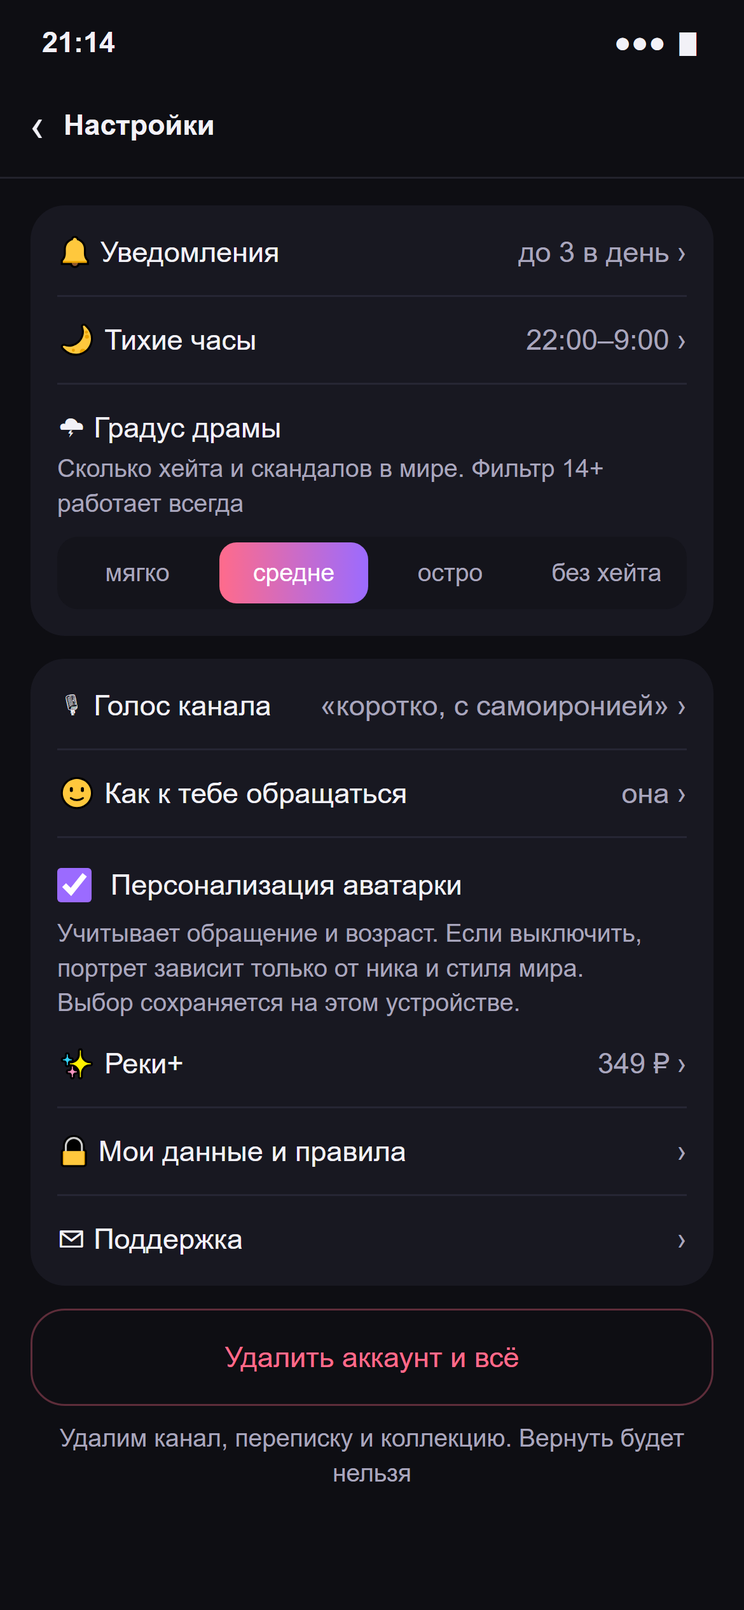
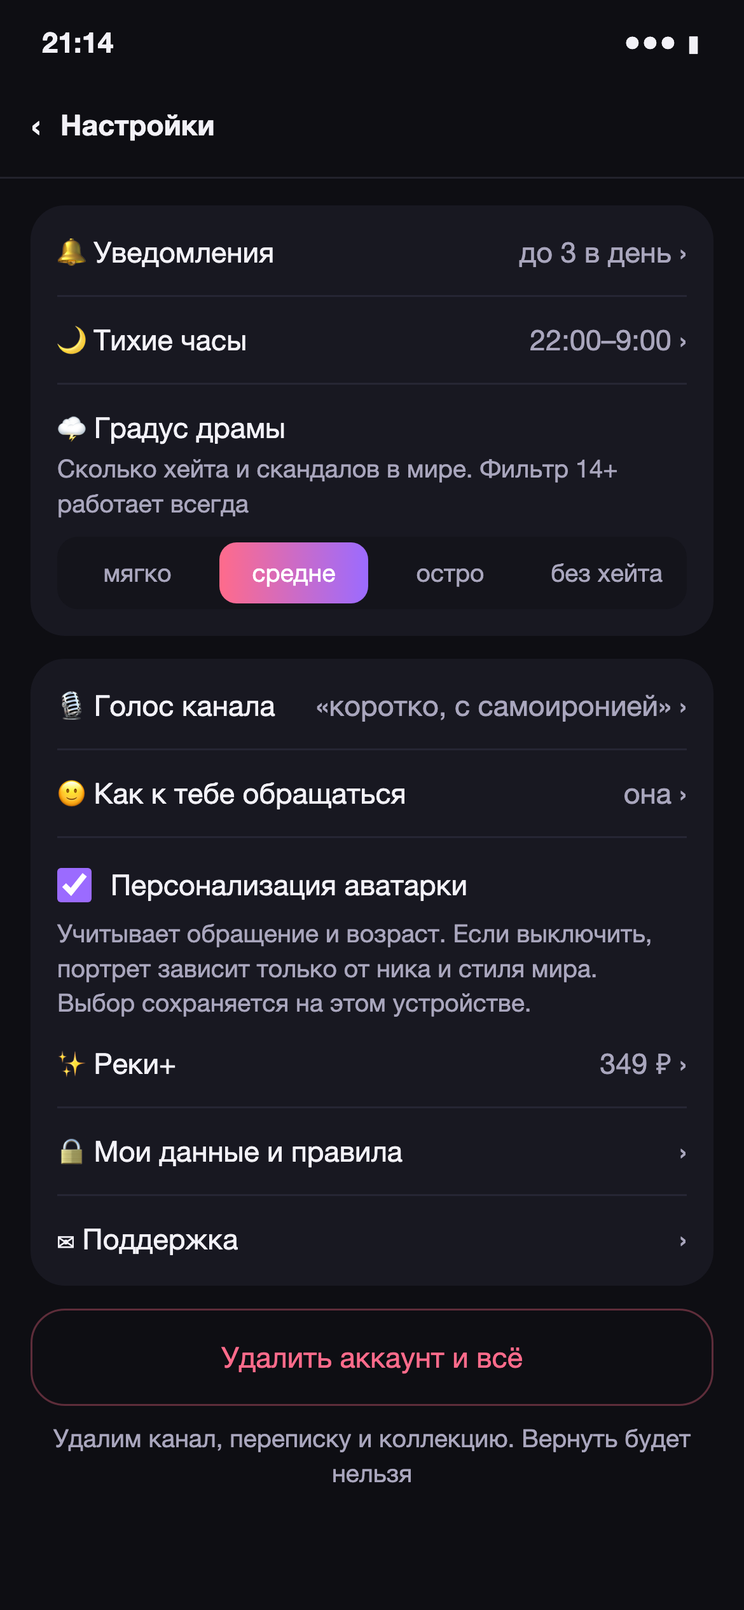
fix(frontend): preserve world editor return context #189

diff --git a/frontend/src/screens/day.tsx b/frontend/src/screens/day.tsx
@@ -271,7 +271,7 @@ function Me() {
           {[[`⚡ ${p.postsLeft}`, 'энергии'], [fmt(p.subs), 'подписчиков']].map(([v, l]) => <Card key={l} style={{ padding: 14, textAlign: 'center' }}><div style={{ fontWeight: 800, fontSize: 16 }}>{v}</div><div className="small muted">{l}</div></Card>)}
         </div>
         <div className="profile-task-row"><div><b>💡 О чём написать</b><p className="small muted">{p.wants[0]?.text ?? "Поделись событием из своего мира"}</p></div><button className="text-link small" onClick={() => nav.push('02-1_compose')}>Написать →</button></div><p className="small muted energy-help">Пост и ответ расходуют энергию. Новый запас — в 09:00 МСК.</p>
-        <Card style={{ marginBottom: 18 }}><b>{p.hitOwnWorldMilestone ? '✨ Свой мир открыт' : '✨ Создай свой мир'}</b><p className="small muted">{p.hitOwnWorldMilestone ? 'Доступ подтверждён. Можно придумать свою историю.' : 'Первый пост приглашённого друга или 500 подписчиков в одном мире.'}</p>{!p.hitOwnWorldMilestone && <><progress aria-label="Подписчики до открытия своего мира" value={Math.min(500, p.subs)} max={500} /><div className="small muted">Этот мир: {Math.min(500, p.subs)} / 500</div></>}<button className="text-link" onClick={() => { if (p.hitOwnWorldMilestone) { beginOwnWorld(p); nav.push('05-7b_own_world', { world: 'own' }) } else nav.push('04-3_invite') }}>{p.hitOwnWorldMilestone ? 'Создать свой мир →' : 'Пригласить друга →'}</button></Card>
+        <Card style={{ marginBottom: 18 }}><b>{p.hitOwnWorldMilestone ? '✨ Свой мир открыт' : '✨ Создай свой мир'}</b><p className="small muted">{p.hitOwnWorldMilestone ? 'Доступ подтверждён. Можно придумать свою историю.' : 'Первый пост приглашённого друга или 500 подписчиков в одном мире.'}</p>{!p.hitOwnWorldMilestone && <><progress aria-label="Подписчики до открытия своего мира" value={Math.min(500, p.subs)} max={500} /><div className="small muted">Этот мир: {Math.min(500, p.subs)} / 500</div></>}<Button secondary onClick={() => nav.push('05-11_world_rules')}>Настройки мира</Button><button className="text-link" onClick={() => { if (p.hitOwnWorldMilestone) { beginOwnWorld(p); nav.push('05-7b_own_world', { world: 'own' }) } else nav.push('04-3_invite') }}>{p.hitOwnWorldMilestone ? 'Создать свой мир →' : 'Пригласить друга →'}</button></Card>
         <Card style={{ marginBottom: 10 }}>
           <div className="row" style={{ justifyContent: 'space-between', marginBottom: 8 }}><b>Серия {p.streak.days} дня</b><span className="small" style={{ color: 'var(--gift)' }}>{p.streak.nextReward}</span></div>
           <div style={{ display: 'flex', gap: 6 }}>{DAYS.map((d, i) => <div key={d} style={{ flex: 1, textAlign: 'center' }}><div style={{ height: 30, borderRadius: 9, display: 'flex', alignItems: 'center', justifyContent: 'center', fontSize: 14, ...(p.streak.week[i] ? { background: 'var(--grad)' } : i === today ? { border: '2px dashed var(--accent)' } : { background: '#20202B' }) }}>{p.streak.week[i] ? '🔥' : i === today ? '?' : ''}</div><div className="small muted" style={{ marginTop: 3 }}>{d}</div></div>)}</div>
@@ -354,7 +354,7 @@ function Settings() {
           {row('🎙 Голос канала', `${p.voice} ›`, false, () => nav.push('05-9_voice'))}{row('🙂 Как к тебе обращаться', `${{ she: 'она', he: 'он', nick: 'по нику' }[p.address]} ›`, false, () => openPanel('address'))}
           <AvatarPersonalization enabled={personalizeAvatar} onChange={enabled => setAvatarPersonalization(p.id, enabled)} />
           <div className="row" style={{ marginBottom: 12 }}><Avatar seed={p.handle} size={48} /><span className="small muted">Выбор сохраняется на этом устройстве.</span></div>
-          {row('✨ Реки+', '349 ₽ ›', false, () => nav.push('04-2_fake_door'))}{row('📜 Как устроен мир', '›', false, () => nav.push('05-11_world_rules'))}{row('📋 Правила публикаций', '›', false, () => nav.push('06-4_rules'))}{row('🔒 Мои данные и правила', 'скоро ›', false, () => openPanel('data'))}{row('✉ Поддержка', 'скоро ›', true, () => openPanel('support'))}
+          {row('✨ Реки+', '349 ₽ ›', false, () => nav.push('04-2_fake_door'))}{row('📋 Правила публикаций', '›', false, () => nav.push('06-4_rules'))}{row('🔒 Мои данные и правила', 'скоро ›', false, () => openPanel('data'))}{row('✉ Поддержка', 'скоро ›', true, () => openPanel('support'))}
         </Card>
         <button onClick={() => setDel(true)} className="card" style={{ width: '100%', textAlign: 'center', color: 'var(--accent)', background: 'transparent', border: '1px solid #FF6B8B55' }}>Удалить аккаунт и всё</button>
         <div className="small muted" style={{ textAlign: 'center', marginTop: 8 }}>Удалим канал, переписку и коллекцию. Вернуть будет нельзя</div>

diff --git a/frontend/src/screens/worldQuick.tsx b/frontend/src/screens/worldQuick.tsx
@@ -15,7 +15,6 @@ import { TextField } from '../ui/TextField'
 import { AvatarPersonalization } from '../ui/AvatarPersonalization'
 import type { Address, WorldDefinition, WorldId } from '../api/types'
 
-function advanced(draft: WorldDraft) { setWorldDraft({ ...draft, advanced: true }) }
 export function WorldOverview() {
   const draft = useWorldDraft(); const nav = useNav(); const { player } = useStore()
   const [confirmSwitch, setConfirmSwitch] = useState(false)
@@ -53,7 +52,7 @@ export function QuickWorldForm({ draft }: { draft: WorldDraft }) {
     <TextField label="Расскажи о своём мире" value={d.description} onChange={description => updateWorldDraft({ description })} rows={5} placeholder="Город парит над морем. Здесь письма доставляют птицы, а жители ищут пропавший остров…" />
     <details className="card"><summary>Нужна идея?</summary><p className="small muted">{d.description.length ? 'Очисти описание, чтобы выбрать готовую идею.' : 'Выбери основу и допиши свои детали.'}</p>{['Город над облаками, где жители ищут пропавший остров и оставляют находки в общей ленте.', 'Космическая станция, на которой каждое утро появляется сообщение из будущего.'].map(idea => <button className="opt" key={idea} disabled={d.description.length > 0} onClick={() => { if (!d.description.length) updateWorldDraft({ description: idea }) }}>{idea}</button>)}</details>
     {!draft.editingId && <p className="small prototype-note">DEV: пока показываем пример наполнения вместо AI-генерации.</p>}
-    <button className="text-link" onClick={() => { advanced(draft); nav.push('05-7b_own_world') }}>Расширенные настройки <span>→</span></button><p className="small muted">Правила, герои и завязка — если хочется настроить всё самому.</p>
+    <button className="text-link" onClick={() => nav.push('05-12_world_advanced')}>Расширенные настройки <span>→</span></button><p className="small muted">Правила, герои и завязка — если хочется настроить всё самому.</p>
   </div><BottomCTA main="Мой персонаж" disabled={!d.title.trim() || !d.description.trim()} onMain={() => { const current = getWorldDraft()!; setWorldDraft({ ...current, definition: draft.editingId ? d : prototypeWorld(d), previewOnly: !draft.editingId }); nav.push('01-4_channel') }} /></div>
 }
 export function QuickChannelForm({ draft }: { draft: WorldDraft }) {
@@ -85,6 +84,6 @@ export function WorldPrototypePreview() {
     <h2>Первая запись в ленте</h2><Card><div className="row"><Avatar seed={first?.avatarSeed} avatarStyle={d.avatarStyle} mode="default" /><div><b>{first?.name}</b><div className="small muted">{first?.role}</div></div></div><p>{d.firstContext}</p><div className="small muted">♡ 12　💬 2</div></Card>
     {second && <Card><b>{second.name}</b><p>У меня есть другая версия. Давай сравним находки в ленте?</p></Card>}
     <p className="small muted">Это пример наполнения для проверки интерфейса. После согласования AI сможет подбирать героев и завязку под твоё описание.</p>
-    <button className="text-link" onClick={() => { advanced(draft); nav.push('05-7b_own_world') }}>Посмотреть расширенные настройки →</button>
+    <button className="text-link" onClick={() => nav.push('05-12_world_advanced')}>Посмотреть расширенные настройки →</button>
   </div><BottomCTA main="Вернуться к настройке" onMain={() => nav.back()} /></div>
 }

diff --git a/frontend/src/screens/worldWizard.tsx b/frontend/src/screens/worldWizard.tsx
@@ -60,6 +60,7 @@ export function ChannelSetup() {
 }
 export function DescriptionSetup() { return <Ready>{draft => draft.advanced ? <StarsForm draft={draft} /> : <QuickWorldForm draft={draft} />}</Ready> }
 export function VoiceSetup() { return <Ready>{draft => <StarsForm draft={draft} quick={!draft.advanced} />}</Ready> }
+export function AdvancedSetup() { return <Ready>{draft => <StarsForm draft={draft} />}</Ready> }
 export function StarsSetup() { return <Ready>{draft => <StarsForm draft={draft} />}</Ready> }
 function StarsForm({ draft, quick = false }: { draft: NonNullable<ReturnType<typeof useWorldDraft>>; quick?: boolean }) {
   const nav = useNav(); const { setPlayer } = useStore(); const d = draft.definition
@@ -80,10 +81,9 @@ function StarsForm({ draft, quick = false }: { draft: NonNullable<ReturnType<typ
       else setError(cause instanceof ApiError && cause.status === 409 ? 'Мир изменился или создание с нуля пока недоступно. Твои изменения сохранены в черновике.' : cause instanceof ApiError && cause.status === 503 ? 'Проверка истории временно недоступна. Настройки сохранены — попробуй начать ещё раз чуть позже.' : 'Не получилось сохранить мир. Проверь поля и попробуй снова.')
     } finally { setSaving(false) }
   }
-  if (quick) return <div className="screen no-tab"><TopBar title="Настроение истории" onBack={saving ? undefined : nav.back} /><div className="pad"><DramaPicker definition={d} />
+  if (quick) return <div className="screen no-tab"><TopBar title="Настроение истории" onBack={saving ? undefined : nav.back} /><div className="pad"><Button secondary onClick={() => nav.push('05-12_world_advanced')}>Редактировать мир</Button><p className="small muted">Мир можно будет отредактировать позже</p><DramaPicker definition={d} />
     <div className="quick-summary"><Avatar seed={d.avatar} avatarStyle={d.avatarStyle} profile={{ address: draft.address, ageBand: draft.ageBand, personalizeAvatar: draft.personalizeAvatar }} /><div><b>{d.name}</b><div className="small muted">{d.title} · {d.role}</div></div></div>
     {draft.previewOnly && <p className="small prototype-note">DEV-прототип: дальше — пример ленты, без создания мира в базе.</p>}
-    <button className="text-link" onClick={() => { setWorldDraft({ ...draft, advanced: true }); nav.push('01-4_channel') }}>Расширенные настройки →</button>
     {error && <p role="alert">{error}</p>}{uncertain && <Button onClick={() => nav.replace('01-3_world')}>Проверить список миров</Button>}
   </div><BottomCTA main={saving ? 'Сохраняем…' : draft.previewOnly ? 'Посмотреть свою историю' : draft.editingId ? 'Сохранить изменения' : 'Начать историю'} disabled={saving || uncertain || !d.voice.trim() || d.stars.length === 0} onMain={save} /></div>
   return <WorldAdvanced draft={draft} saving={saving} error={error} uncertain={uncertain} onSave={save} onCheck={() => nav.replace('01-3_world')} />

diff --git a/frontend/src/screens/worldAdvanced.tsx b/frontend/src/screens/worldAdvanced.tsx
@@ -15,6 +15,12 @@ function StringList({ title, help, values, onChange }: { title: string; help: st
 }
 export function WorldAdvanced({ draft, saving, error, uncertain, onSave, onCheck }: { draft: WorldDraft; saving: boolean; error: string; uncertain: boolean; onSave: () => void; onCheck: () => void }) {
   const nav = useNav(); const d = draft.definition
+  // Temporary editor visits use their own history entry; the draft's mode stays intact.
+  const quickSettings = () => {
+    if (nav.current === '05-12_world_advanced' && nav.canBack) { nav.back(); return }
+    setWorldDraft({ ...draft, advanced: false })
+    nav.replace(d.balanceKey === 'own' || draft.editingId ? '05-7b_own_world' : '01-4_channel')
+  }
   const [open, setOpen] = useState(''); const [attempted, setAttempted] = useState(false)
   const update = updateWorldDraft
   const text = (label: string, key: keyof WorldDefinition, help?: string, rows = 2, maxLength = 2000) => <div><TextField label={label} value={String(d[key])} onChange={v => update({ [key]: v })} rows={rows} maxLength={maxLength} />{help && <p className="field-help small muted">{help}</p>}</div>
@@ -22,7 +28,7 @@ export function WorldAdvanced({ draft, saving, error, uncertain, onSave, onCheck
   const section = (id: string, title: string, subtitle: string, children: ReactNode) => <section className="editor-section" id={`editor-${id}`}><button className="editor-section-head" aria-expanded={open === id} onClick={() => setOpen(open === id ? '' : id)}><span><b>{title}</b><span className="small muted">{subtitle}</span>{attempted && missing === id && <span className="small down">Заполни обязательные поля</span>}</span><span aria-hidden>{open === id ? '−' : '＋'}</span></button>{open === id && <div className="editor-section-body">{children}</div>}</section>
   const changeStar = (id: string, patch: Partial<WorldDefinition['stars'][number]>) => update({ stars: d.stars.map(s => s.id === id ? { ...s, ...patch } : s) })
   return <div className="screen no-tab advanced-world"><TopBar title="Настрой свой мир" onBack={saving ? undefined : nav.back} /><div className="pad">
-    <button className="text-link" onClick={() => { setWorldDraft({ ...draft, advanced: false }); nav.replace(d.balanceKey === 'own' || draft.editingId ? '05-7b_own_world' : '01-4_channel') }}>← Быстрые настройки</button>
+    <button className="text-link" onClick={quickSettings}>← Быстрые настройки</button>
     <h1>Добавь свои детали</h1><p className="muted">Открой нужный раздел. Остальное можно оставить как есть.</p>
     {section('person', 'Твой персонаж', d.name ? `${d.name} · ${d.role}` : 'Имя, занятие и портрет', <>
       {text('Имя персонажа', 'name', undefined, 1, 80)}{text('Кто ты в этой истории', 'role', 'Например: фотограф, который замечает странности.', 2, 80)}

diff --git a/frontend/src/screens/world.tsx b/frontend/src/screens/world.tsx
@@ -5,7 +5,7 @@ import { usePlayer } from '../app/store'
 import { useNav } from '../app/nav'
 import { selectDraftOwner, setWorldDraft } from '../app/worldDraft'
 import { Button, TopBar } from '../ui'
-import { DescriptionSetup } from './worldWizard'
+import { AdvancedSetup, DescriptionSetup } from './worldWizard'
 import { register } from '.'
 import { AgeRuleNote } from './worldAdvanced'
 import { worldArt } from '../app/worldPrototype'
@@ -34,4 +34,4 @@ function WorldDetailsScreen() {
     {error && <p role="alert">{error}</p>}
   </div></div>
 }
-register({ '05-7b_own_world': { component: DescriptionSetup, title: 'Описание и правила мира' }, '05-11_world_rules': { component: WorldDetailsScreen, title: 'Настройки мира' } })
+register({ '05-12_world_advanced': { component: AdvancedSetup, title: 'Редактирование мира' }, '05-7b_own_world': { component: DescriptionSetup, title: 'Описание и правила мира' }, '05-11_world_rules': { component: WorldDetailsScreen, title: 'Настройки мира' } })

diff --git a/docs/design/src/journey_v27.py b/docs/design/src/journey_v27.py
@@ -1,0 +1,9 @@
+# #189: visible world settings and contextual editor return, 20.10.2026.
+marker = '<h1>Сколько драмы добавим?</h1>'
+assert marker in S['01-4b_world_setup']
+S['01-4b_world_setup'] = S['01-4b_world_setup'].replace(marker, '<div class="card" style="text-align:center">Редактировать мир</div><p class="small muted">Мир можно будет отредактировать позже</p>' + marker, 1)
+marker = '<p>Этот мир: 209 / 500</p>'
+assert marker in S['05-5_collection']
+S['05-5_collection'] = S['05-5_collection'].replace(marker, marker + '<div class="card" style="text-align:center;margin:12px 0">Настройки мира</div>', 1)
+import re
+S['05-8_settings'] = re.sub(r'<div class="why"[^>]*><span>📜 Как устроен мир</span>.*?</div>', '', S['05-8_settings'])

diff --git a/docs/design/src/build_journey.py b/docs/design/src/build_journey.py
@@ -331,6 +331,8 @@ exec(open(os.path.join(D, 'journey_v24.py'), encoding='utf-8').read())  # #150 s
 exec(open(os.path.join(D, 'journey_v25.py'), encoding='utf-8').read())  # avatar personalization
 exec(open(os.path.join(D, 'journey_v26.py'), encoding='utf-8').read())  # narrative preset goals
 
+exec(open(os.path.join(D, 'journey_v27.py'), encoding='utf-8').read())  # #189 editor navigation and settings
+
 CH = os.environ.get('CHROME_BIN') or shutil.which('google-chrome') or shutil.which('chrome')
 if not CH and os.name == 'nt':
     CH = os.path.join(os.environ.get('PROGRAMFILES', 'C:\\Program Files'), 'Google', 'Chrome', 'Application', 'chrome.exe')

diff --git a/docs/game-flow.md b/docs/game-flow.md
@@ -29,7 +29,8 @@
 4. **Мир.** Все четыре пресета доступны сразу: «Вечерело», «Школа чародеев», «Игра домов», «Айти-тусовка». Создание с нуля открывает постоянный HitOwnWorldMilestone: 500 подписчиков в одном принадлежащем игроку мире либо начисленный бонус пригласившему за первый пост друга. Реки+ и навыки этот доступ не открывают.
 5. **Канал:** роль в мире, название и ник, «как к тебе обращаться: она / он / по нику». Превью показывает выбранную роль; био убрано.
 6. **Решено 13.10.2026: короткий путь из пресета:** для пресета обзор с обложкой → свой персонаж либо герой мира → градус драмы → начало игры. Голос, правила и состав мира берутся из пресета; обязательных редакторов описания и голоса нет. Выбранный герой удаляется из AI-состава. Для создания с нуля быстрый путь: название и описание → персонаж → драма. Расширенные настройки добровольны; единый черновик сохраняет ввод между режимами. Профиль регистрируется только при фактическом создании пресета, если его ещё нет.
-7. **Демо собственного мира:** в DEV доступен просмотр быстрой настройки независимо от игрового доступа; он не открывает доступ на сервере и не создаёт мир. Заполнение героев и завязки — явно обозначенные фиксированные демонстрационные данные, не AI. Финал показывает пример ленты без POST /worlds. Backend-задача генерации будет оформлена после одобрения прототипа; API генерации пока нет. Ручной расширенный редактор существующих миров сохраняет PUT и прогресс. Общие ограничения безопасности действуют, но не дублируются подписью на шаге драмы.
+7. **Редактирование мира (#189):** на шаге драмы кнопка «Редактировать мир» стоит над вариантами с пояснением «Мир можно будет отредактировать позже». Временный вход в расширенный редактор сохраняет исходный экран и режим в истории навигации. «Быстрые настройки», стрелка приложения и Telegram BackButton возвращают на этот экран, сохраняя персонажа, драму и все изменения полей; повторные входы не добавляют циклов. На экране «Я» кнопка «Настройки мира» расположена под прогрессом открытия своего мира и остаётся доступной после открытия. Она ведёт на 05-11 с действием «Редактировать мир». В общих настройках прежнего входа «Как устроен мир» нет; ссылка в ленте сохраняется.
+8. **Демо собственного мира:** в DEV доступен просмотр быстрой настройки независимо от игрового доступа; он не открывает доступ на сервере и не создаёт мир. Заполнение героев и завязки — явно обозначенные фиксированные демонстрационные данные, не AI. Финал показывает пример ленты без POST /worlds. Backend-задача генерации будет оформлена после одобрения прототипа; API генерации пока нет. Ручной расширенный редактор существующих миров сохраняет PUT и прогресс. Общие ограничения безопасности действуют, но не дублируются подписью на шаге драмы.
 8. **Первый экран:** после создания открывается канал нового мира (03-5). Для повторного входа без опубликованных постов доступна завязка и кнопка первого поста. Популярность и события относятся к игре.
 
 **Решено 07.10.2026:** при повторном входе экран с квестом «первый пост» показываем только пока у игрока нет опубликованных постов. После первой публикации сразу открываем канал (03-5). Если проверить публикации не удалось, открываем канал с возможностью повторить загрузку, чтобы не показывать ложный квест первого поста.
